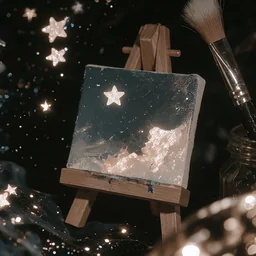
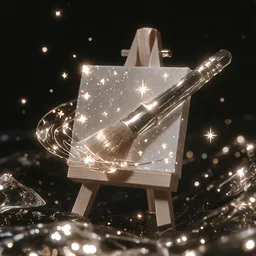
Новые иконки плагинов
Claude-Session: https://claude.ai/code/session_016ZLamfw6BPjsLxPMWARCRW

diff --git a/index.html b/index.html
@@ -155,9 +155,9 @@
 <section class="sec" id="plugins">
   <header class="sec-head"><p class="kicker">iv · плагины</p><h2>Инструменты для чата</h2><p>Плагины ставятся в Tavo отдельно. Свежие версии — в Telegram.</p></header>
   <div class="plugins reveal">
-    <article><span class="pi"><img src="img/plugin-holst.webp" alt="" loading="lazy"></span><h4>Холст</h4><p>Картинки по ходу истории через NovelAI или Tensor, несколько LoRA сразу, внешность людей из чата — семья, друзья, работа.</p></article>
-    <article><span class="pi"><img src="img/plugin-shepot.webp" alt="" loading="lazy"></span><h4>Шёпот</h4><p>Дневник и подсказки к сцене. Работает с героем любого пола.</p></article>
-    <article><span class="pi"><img src="img/plugin-perishko.webp" alt="" loading="lazy"></span><h4>Пёрышко</h4><p>Облегчённый чат, когда хочется писать, а не настраивать.</p></article>
+    <article><span class="pi"><img src="img/plugin-holst.webp?v=2" alt="" loading="lazy"></span><h4>Холст</h4><p>Картинки по ходу истории через NovelAI или Tensor, несколько LoRA сразу, внешность людей из чата — семья, друзья, работа.</p></article>
+    <article><span class="pi"><img src="img/plugin-shepot.webp?v=2" alt="" loading="lazy"></span><h4>Шёпот</h4><p>Дневник и подсказки к сцене. Работает с героем любого пола.</p></article>
+    <article><span class="pi"><img src="img/plugin-perishko.webp?v=2" alt="" loading="lazy"></span><h4>Пёрышко</h4><p>Облегчённый чат, когда хочется писать, а не настраивать.</p></article>
   </div>
   <div class="dl center"><a class="btn ghost" href="https://t.me/choijoowoo" target="_blank" rel="noopener">Плагины в Telegram</a></div>
 </section>
